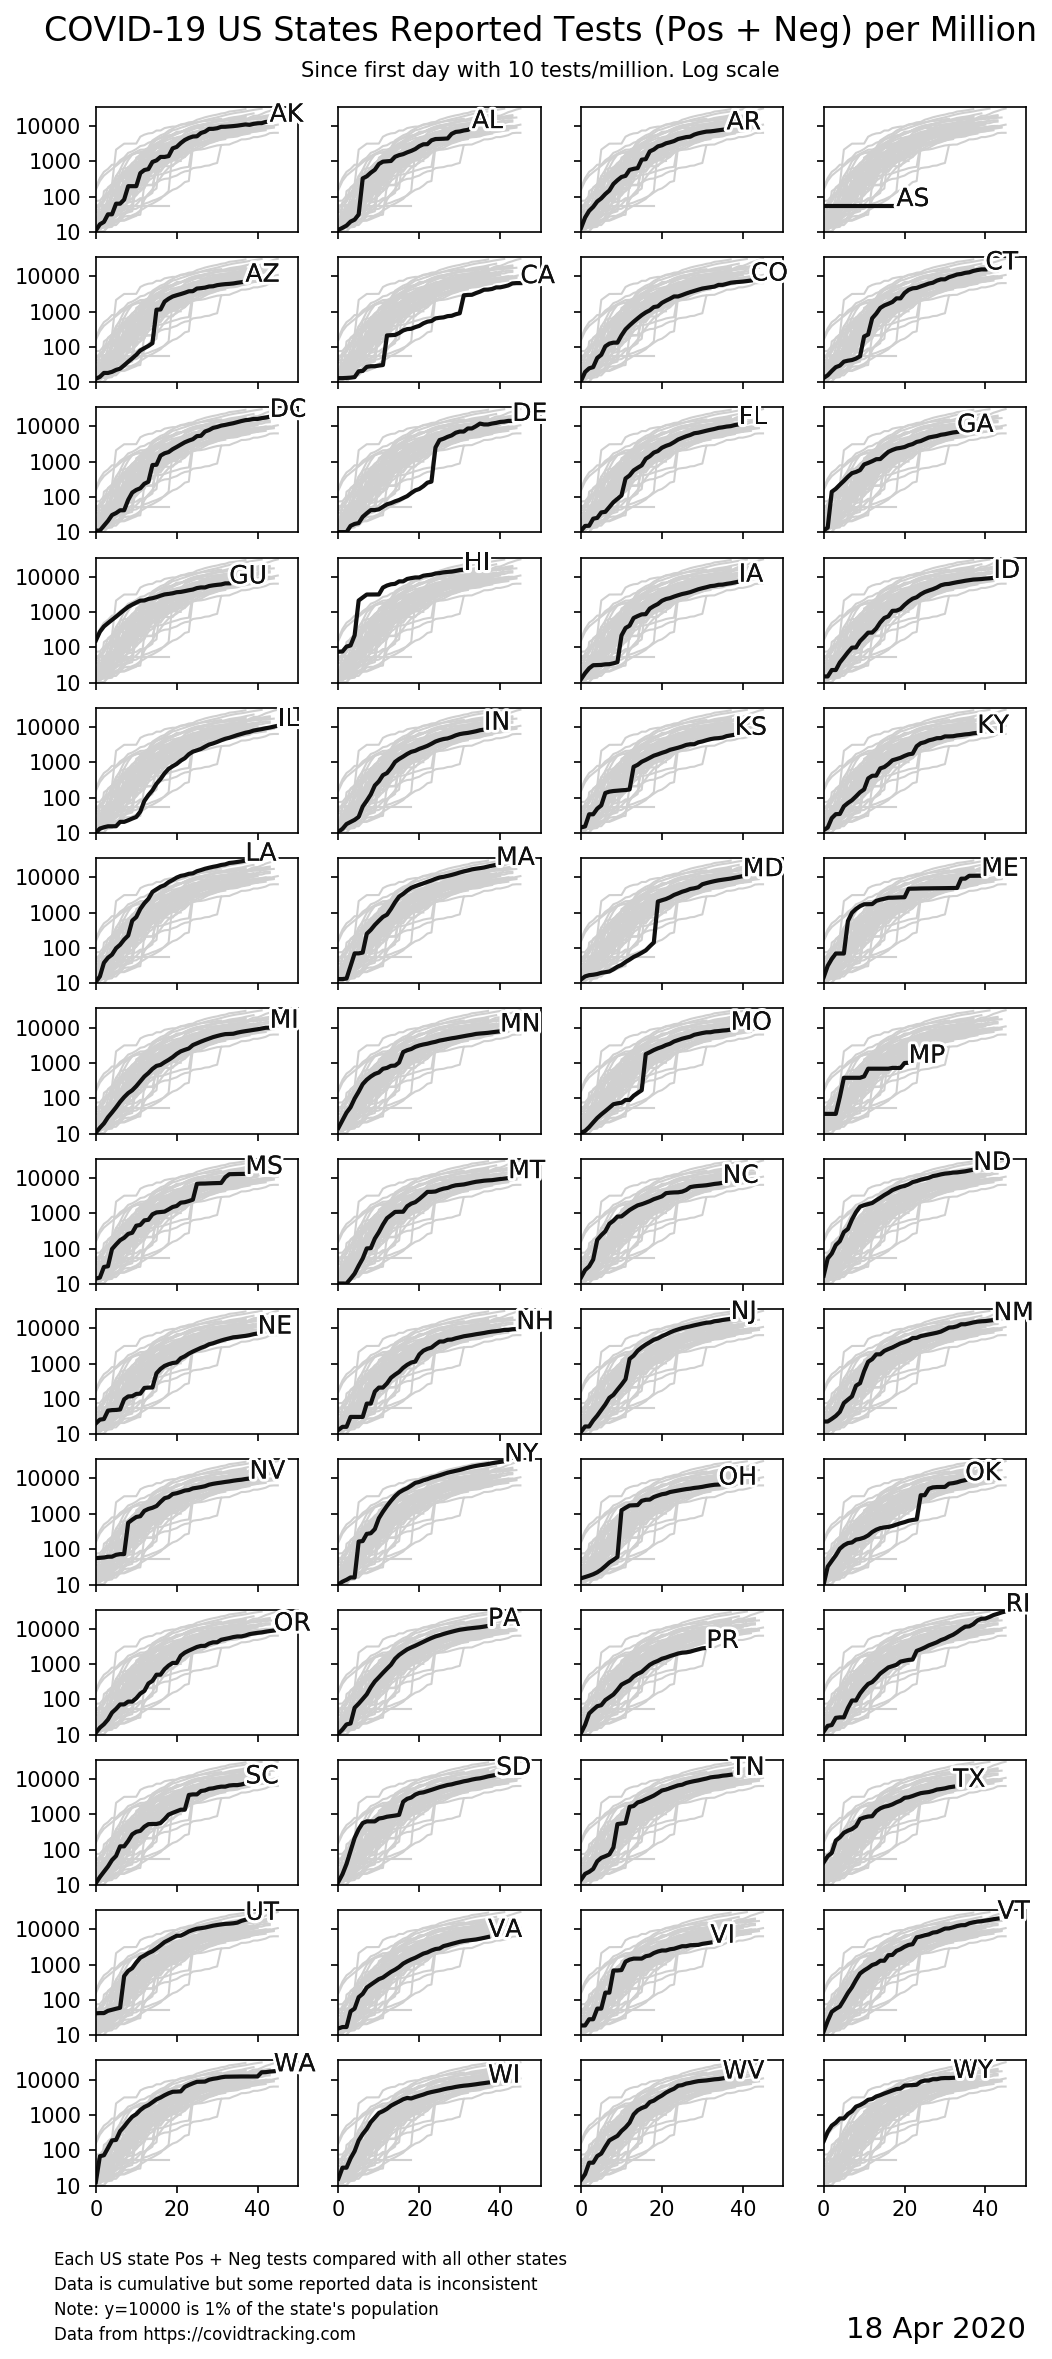
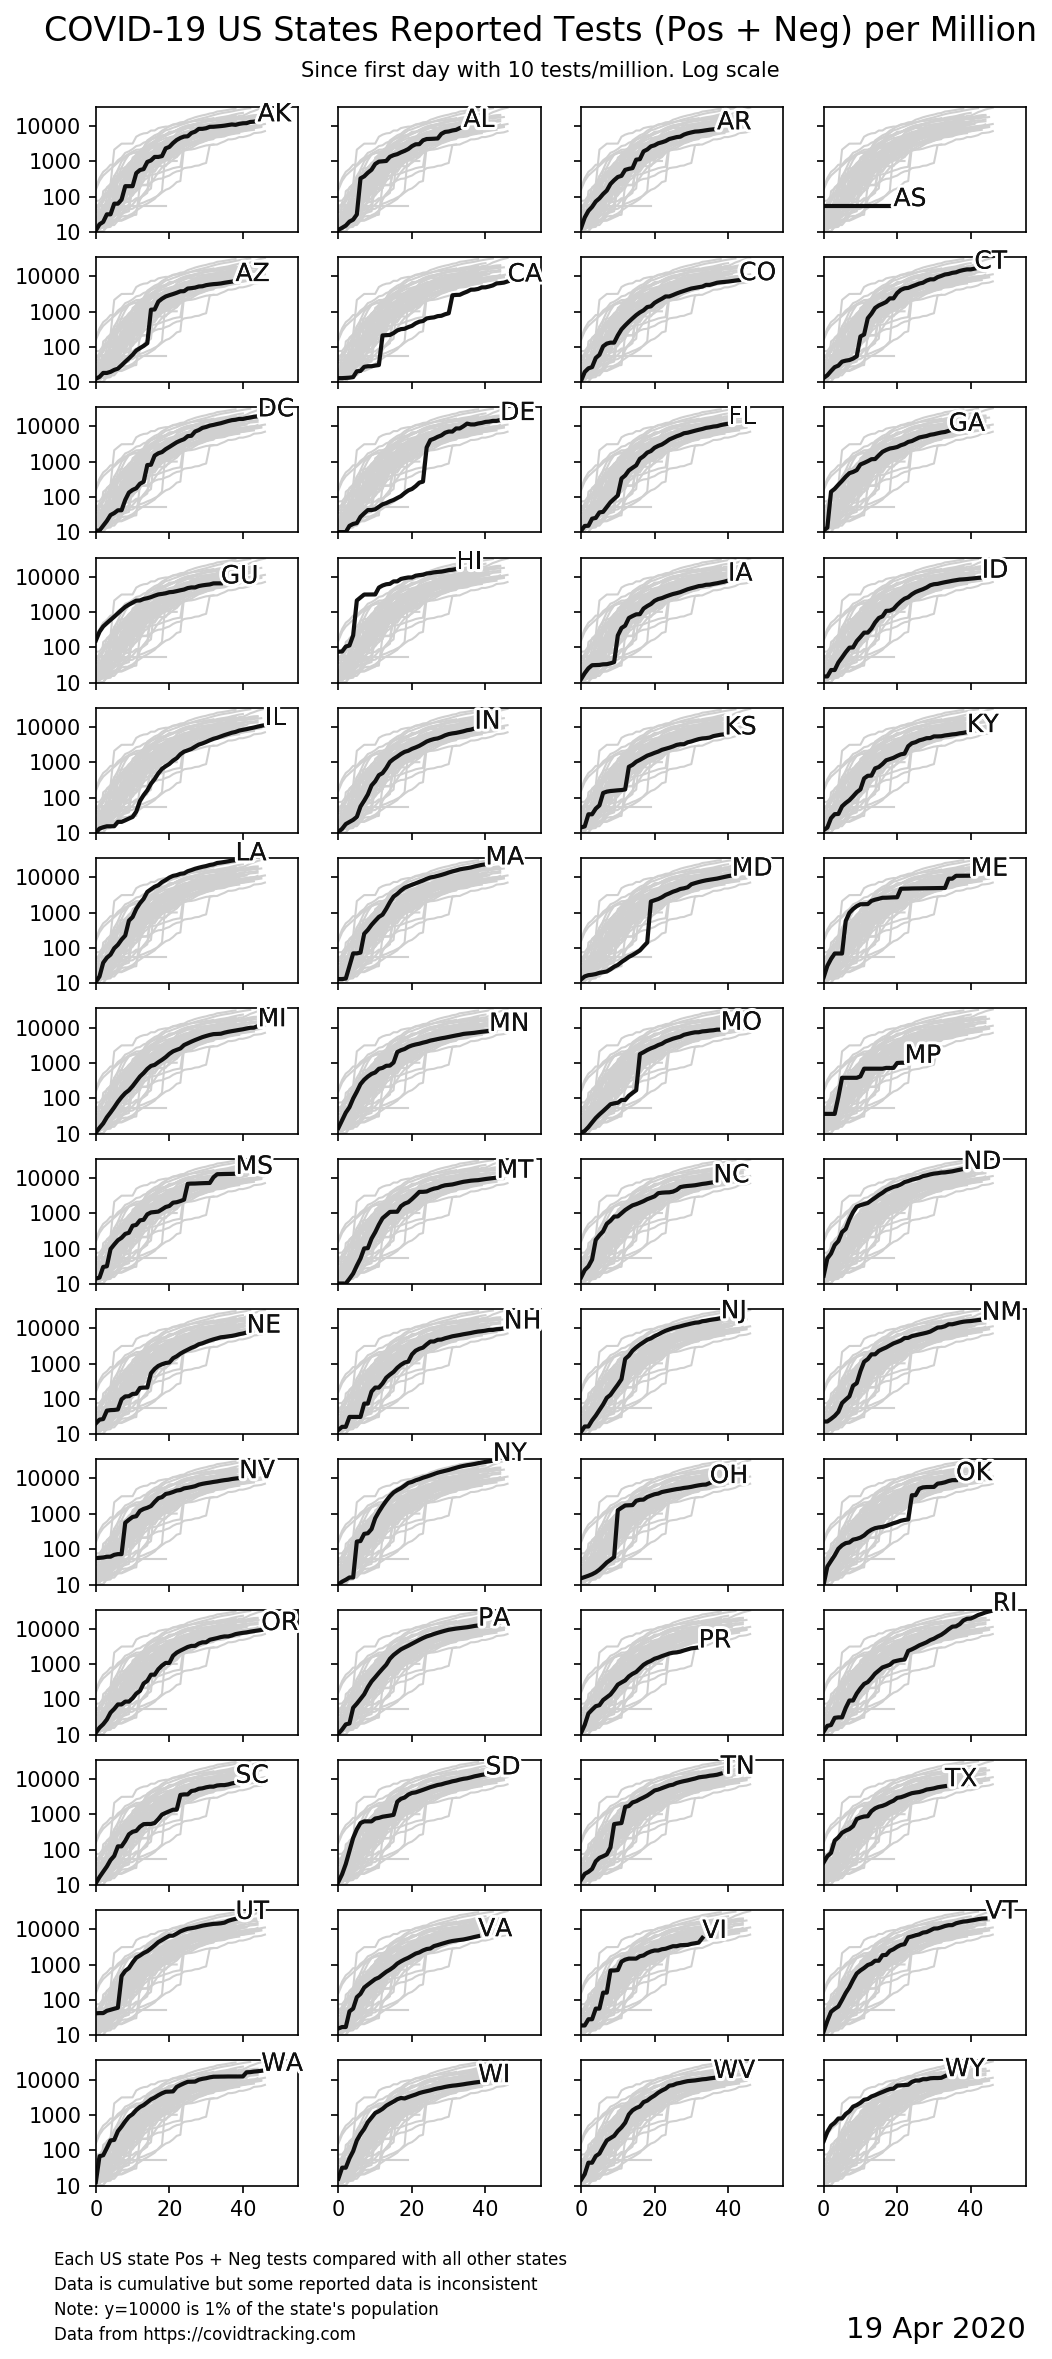
Update axes for 19 Apr 2020

diff --git a/plot.py b/plot.py
@@ -28,10 +28,10 @@ class Options(object):
 
 # Graph parameters for Reported Tests
 class C19Tests:
-	num_days = 55
+	num_days = 60
 	threshold = 150
 	y_min = threshold
-	y_max = 4000000
+	y_max = 5000000
 	title = 'COVID-19 US reported tests'
 	subtitle = 'Since first day with %d tests' % threshold
 	output_dir = 'tests'
@@ -43,7 +43,7 @@ class C19Tests:
 	units = ''
 
 class C19TestsNorm:
-	num_days = 55
+	num_days = 60
 	threshold = 10
 	y_min = threshold
 	y_max = 35000
@@ -108,7 +108,7 @@ class C19CasesNorm:
 
 # Graph parameters for Reported Deaths
 class C19Deaths:
-	num_days = 55
+	num_days = 60
 	threshold = 10
 	y_min = threshold
 	y_max = 40000
@@ -126,7 +126,7 @@ class C19DeathsNorm:
 	num_days = 50
 	threshold = 1
 	y_min = threshold
-	y_max = 700
+	y_max = 800
 	title = 'COVID-19 US States Reported Deaths per Million'
 	subtitle = 'Since first day with %d death/million' % threshold
 	output_dir = 'deaths-norm'
